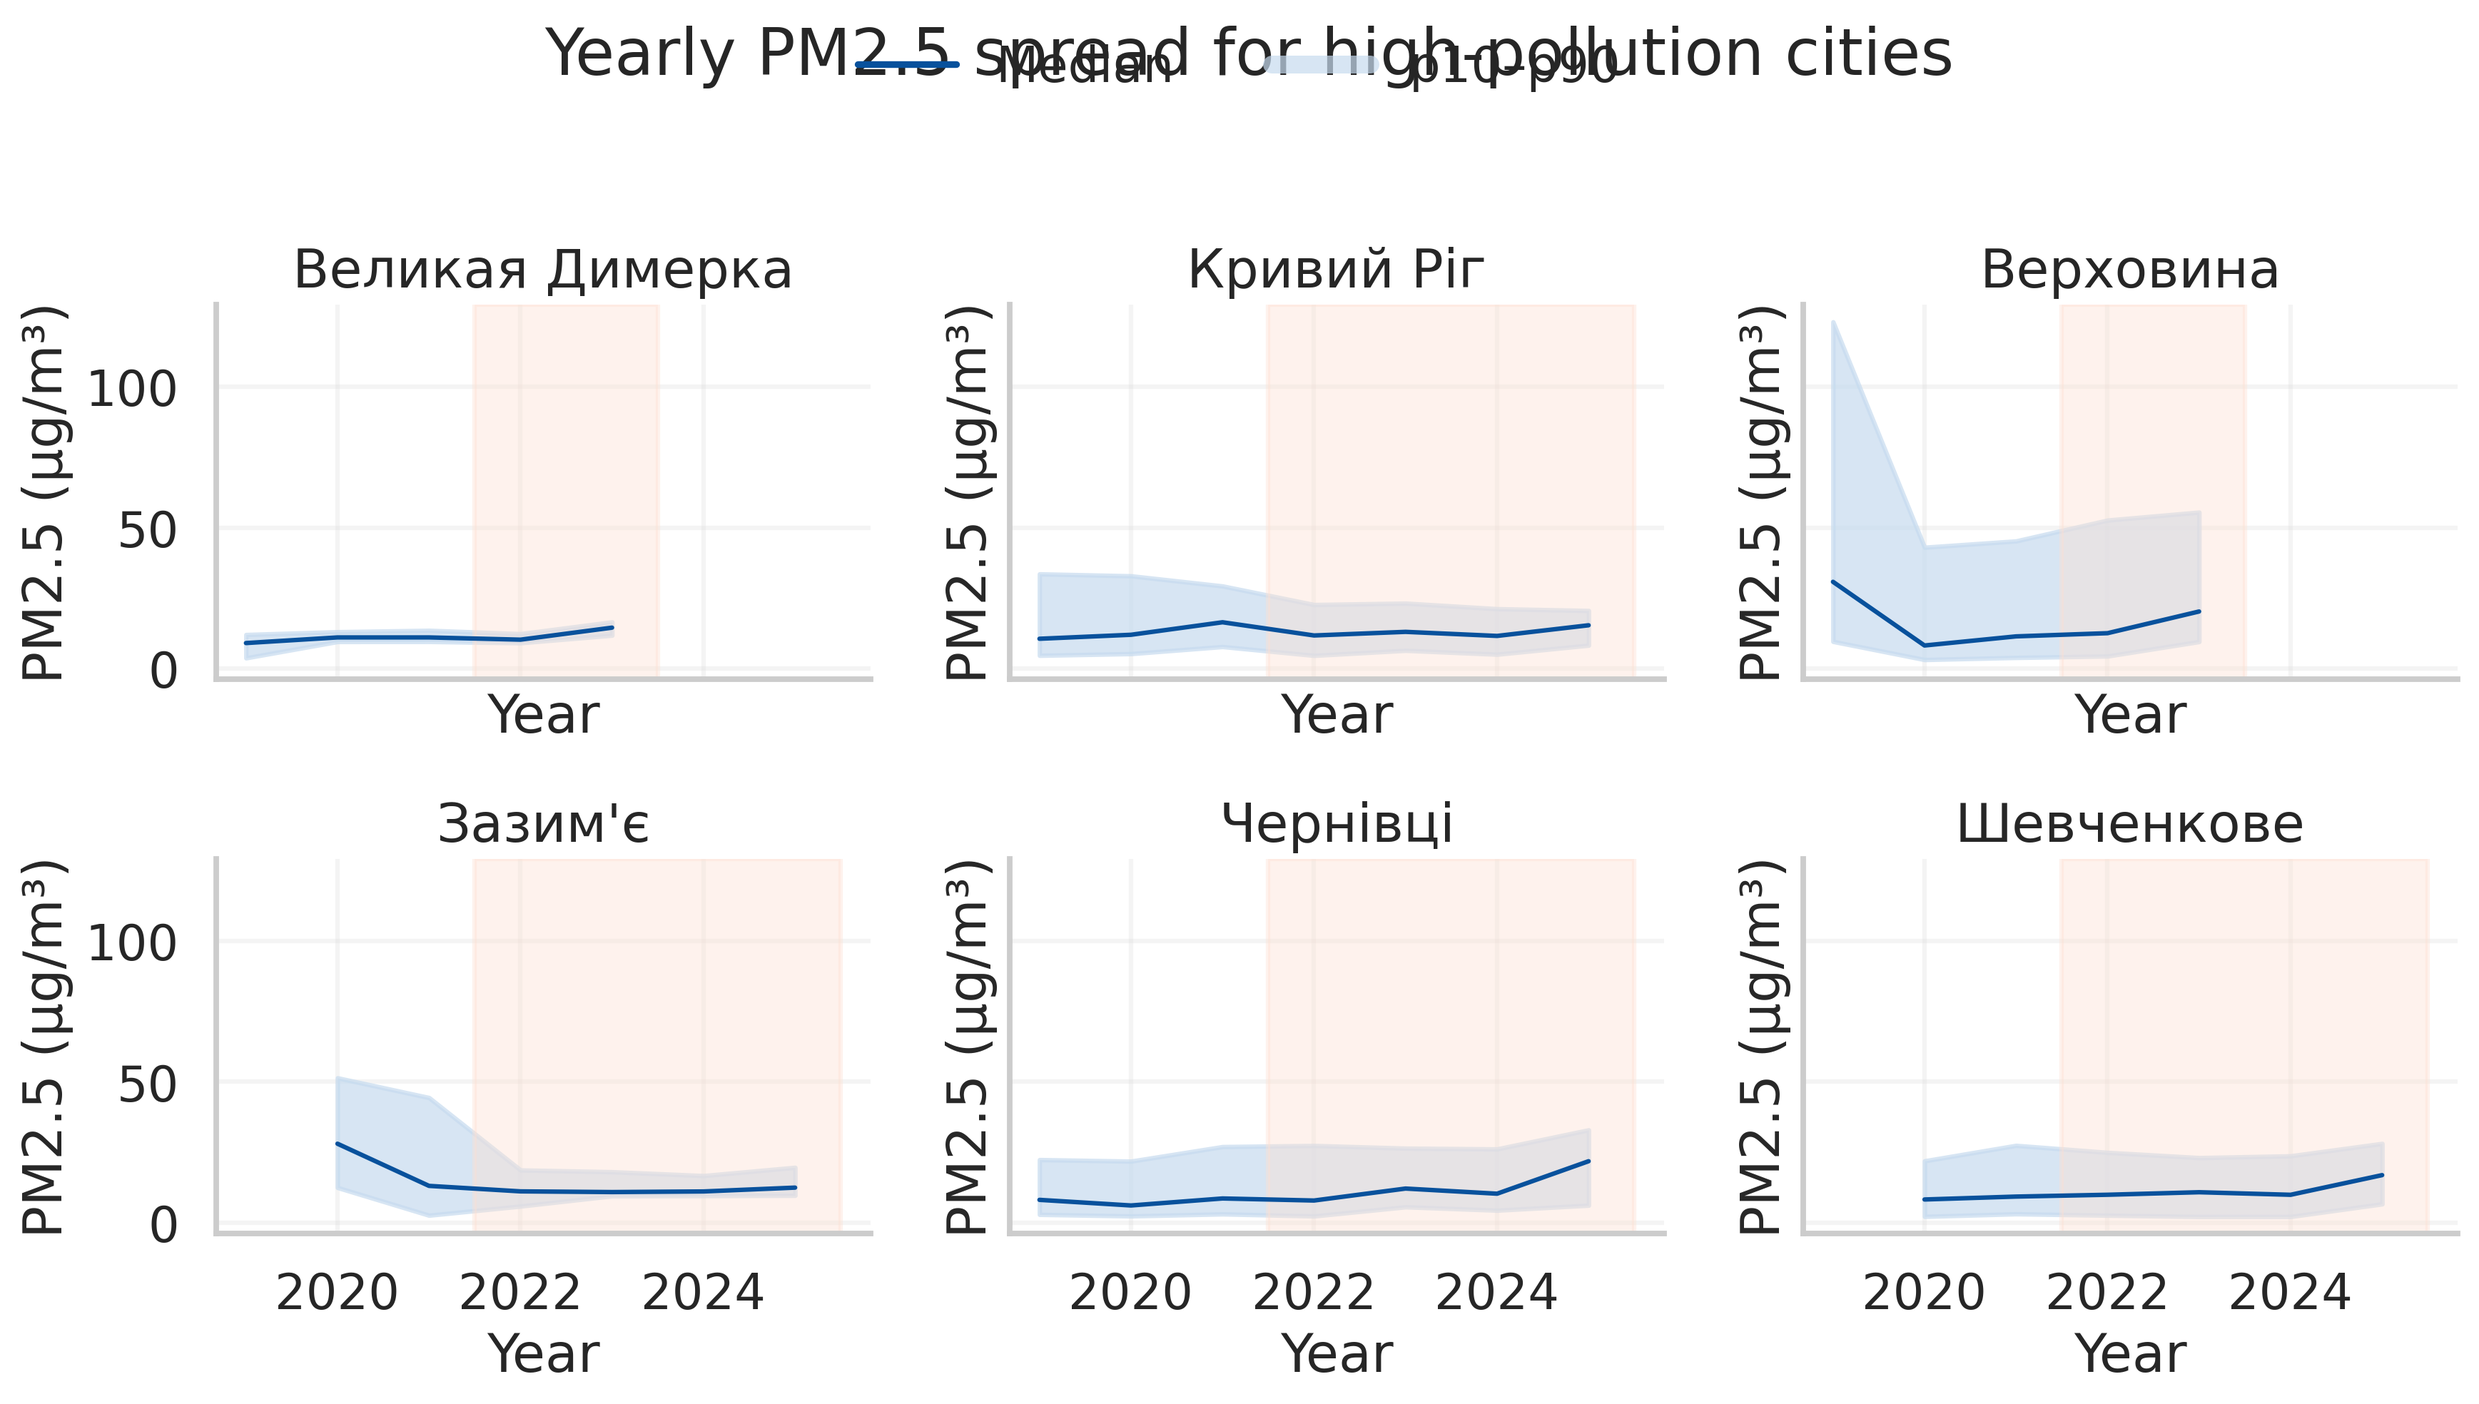
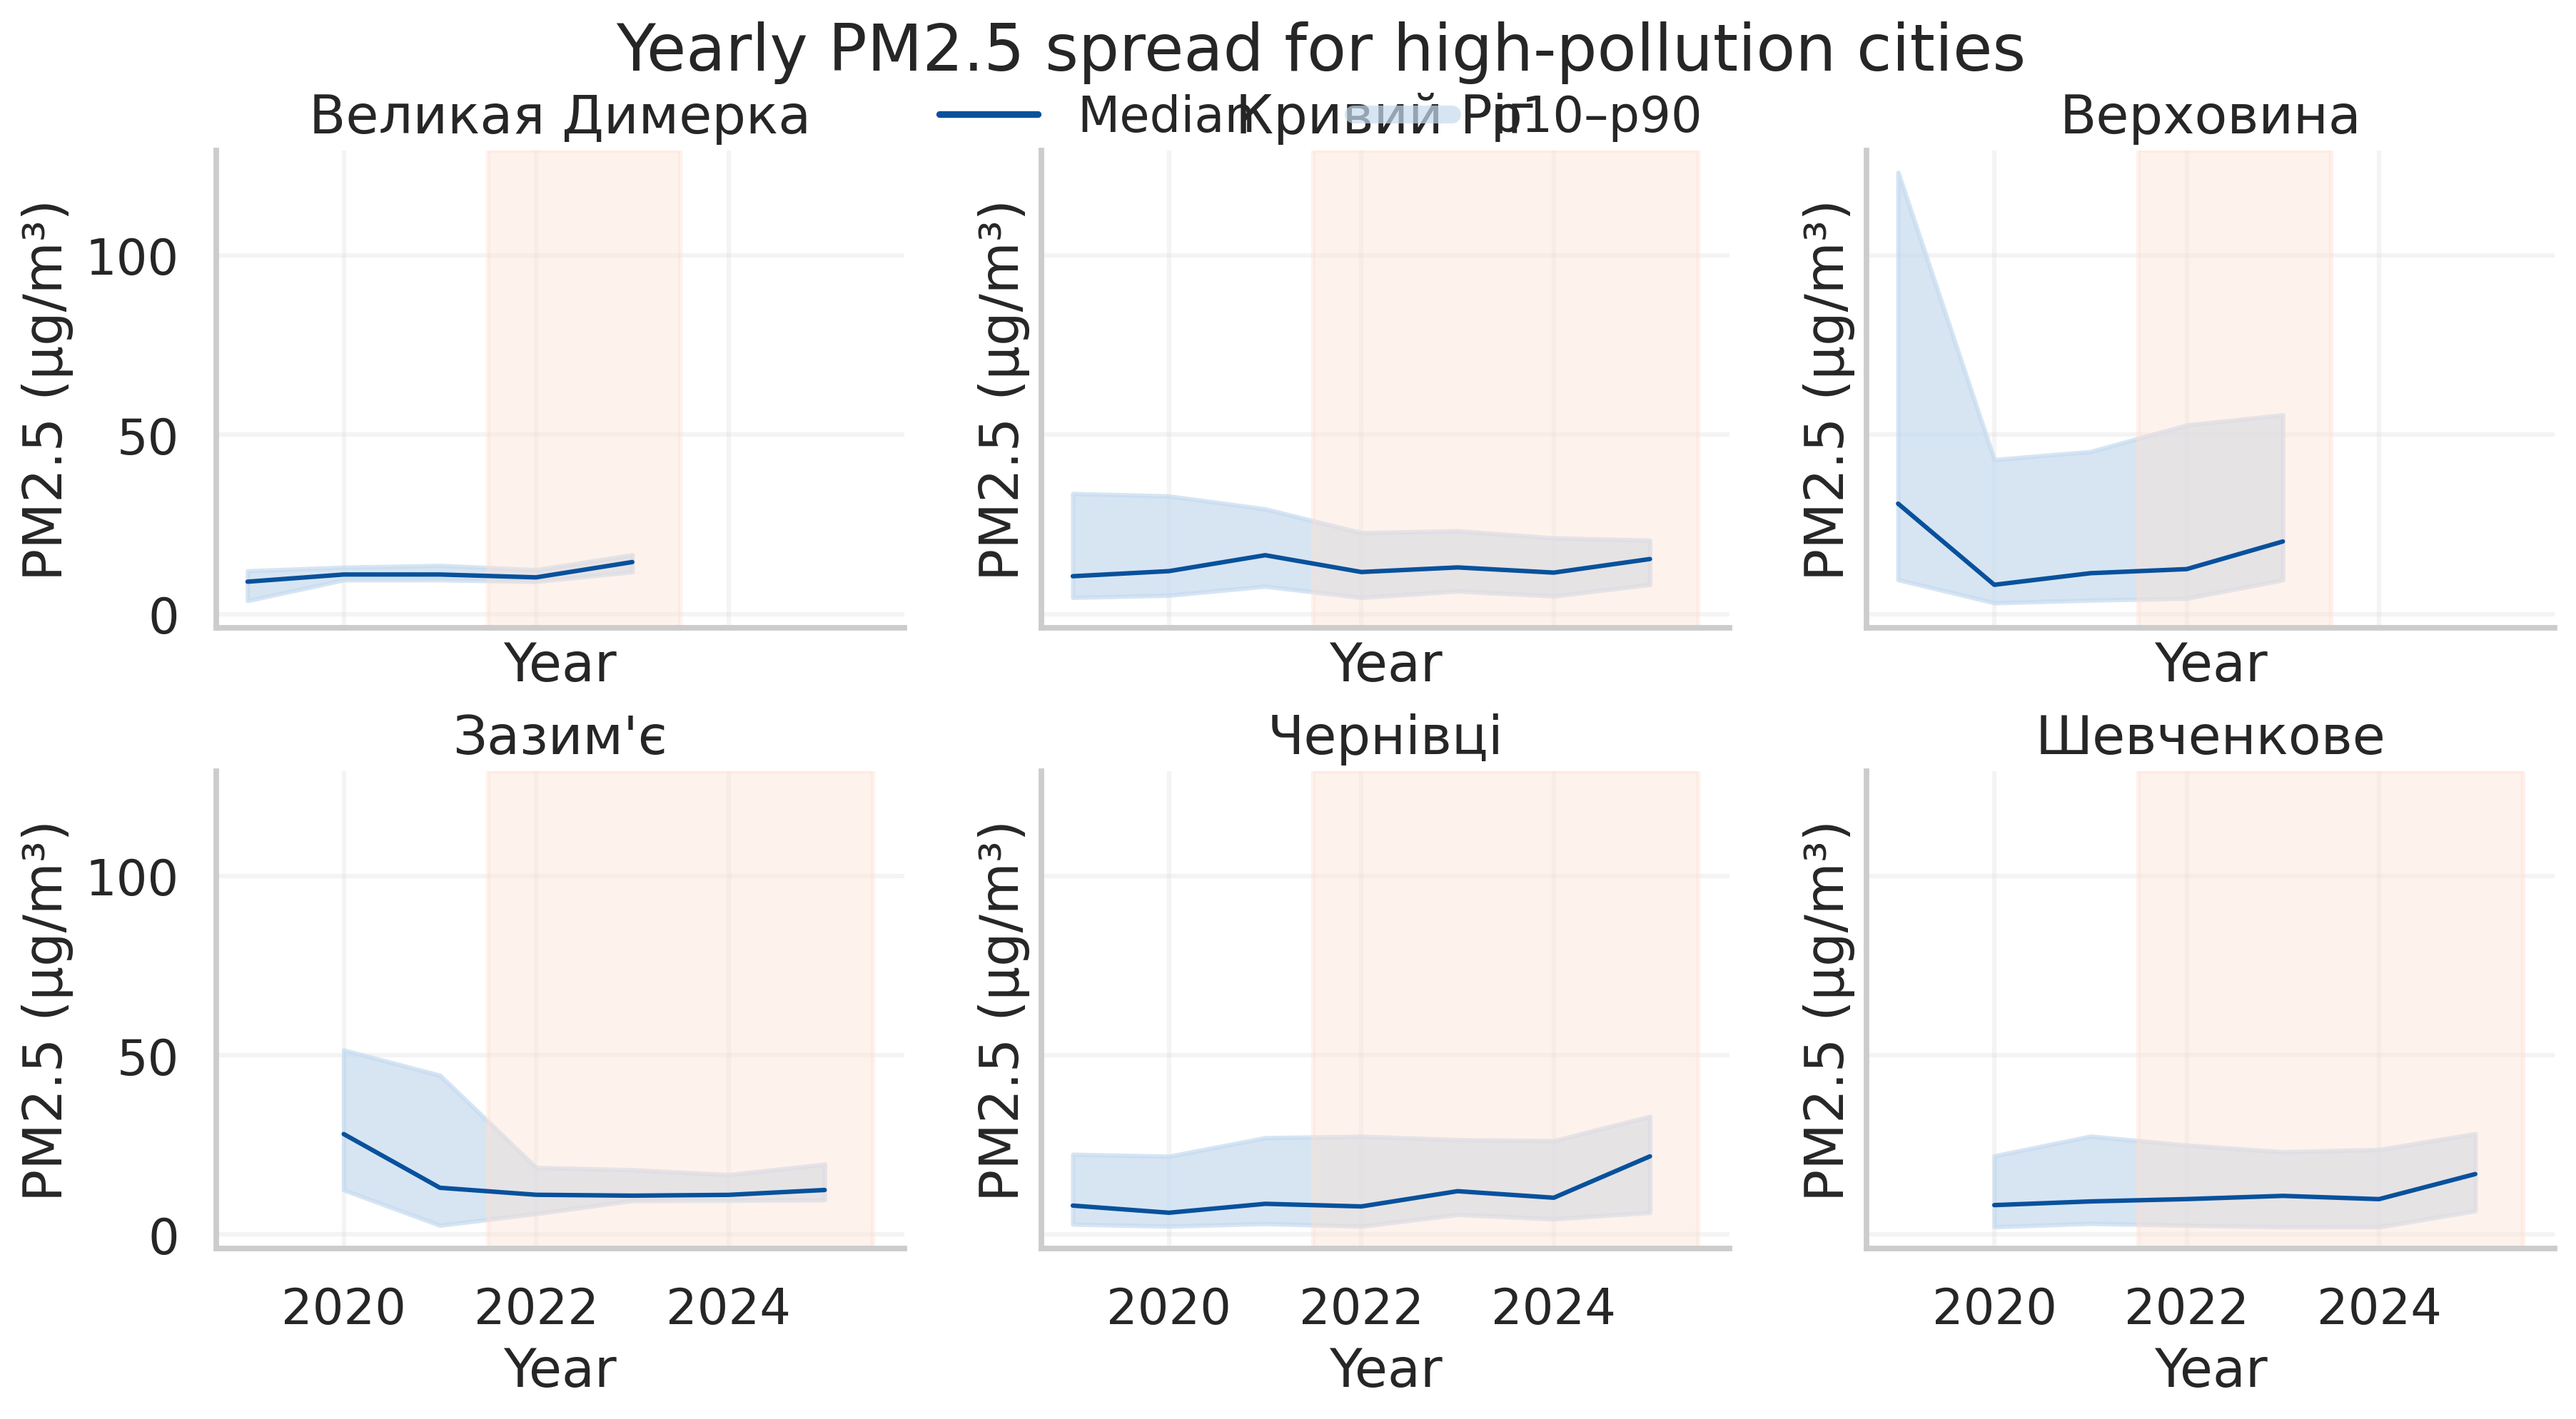
fix: diagrams

diff --git a/src/visualization/figures.py b/src/visualization/figures.py
@@ -72,6 +72,7 @@ def plot_distribution_shift(
     )
     ax.set_xlim(0, max(40, x_max))
     ax.legend(frameon=False)
+    fig.subplots_adjust(top=0.88, bottom=0.15, left=0.08, right=0.97)
     _despine_axes([ax])
     save_figure(fig, output)
 
@@ -156,6 +157,7 @@ def plot_city_ranking(
         frameon=False,
         loc="lower right",
     )
+    fig.subplots_adjust(top=0.88, bottom=0.2, left=0.25, right=0.95)
     _despine_axes([ax])
     save_figure(fig, output)
 
@@ -225,9 +227,15 @@ def plot_inequality_panel(
         plt.Line2D([0], [0], color="#08519c", label="Median"),
         plt.Line2D([0], [0], color="#c6dbef", linewidth=6, alpha=0.7, label="p10–p90"),
     ]
-    fig.legend(handles=handles, loc="upper center", ncol=2, frameon=False)
-    fig.suptitle("Yearly PM2.5 spread for high-pollution cities")
-    fig.tight_layout(rect=[0, 0, 1, 0.95])
+    fig.suptitle("Yearly PM2.5 spread for high-pollution cities", y=0.97)
+    fig.legend(
+        handles=handles,
+        loc="upper center",
+        bbox_to_anchor=(0.5, 0.95),
+        ncol=2,
+        frameon=False,
+    )
+    fig.subplots_adjust(top=0.88, bottom=0.12, left=0.07, right=0.98, hspace=0.3)
     _despine_axes(ax for ax in axes if ax.get_visible())
     save_figure(fig, output)
 
@@ -251,7 +259,7 @@ def plot_heatmap(data: pd.DataFrame, output: Path) -> None:
     if len(periods) == 1:
         axes = [axes]
 
-    month_labels = ["Jan", "Feb", "Mar", "Apr", "May", "Jun", "Jul", "Aug", "Sep", "Oct", "Nov", "Dec"]
+    month_labels = ["Jan", "", "Mar", "", "May", "", "Jul", "", "Sep", "", "Nov", ""]
     vmax = grouped["pm25"].max()
     vmin = grouped["pm25"].min()
 
@@ -271,9 +279,10 @@ def plot_heatmap(data: pd.DataFrame, output: Path) -> None:
         ax.set_xlabel("Month")
         ax.set_xticklabels(month_labels, rotation=45, ha="right")
         ax.set_ylabel("Local Hour")
+        ax.set_yticks(range(0, 24, 3))
 
-    fig.suptitle("Average hourly PM2.5 by month and hour")
-    fig.tight_layout(rect=[0, 0, 1, 0.93])
+    fig.suptitle("Average hourly PM2.5 by month and hour", y=0.96)
+    fig.subplots_adjust(top=0.88, bottom=0.12, left=0.08, right=0.98, wspace=0.12)
     _despine_axes(axes)
     save_figure(fig, output)
 
@@ -330,8 +339,8 @@ def plot_exceedance_timeline(
     )
     ax.legend(frameon=False, ncol=2)
     ax.set_ylim(0, 1)
+    fig.subplots_adjust(top=0.88, bottom=0.16, left=0.08, right=0.97)
     _despine_axes([ax])
-    fig.tight_layout()
     save_figure(fig, output)
 
 
@@ -376,8 +385,8 @@ def plot_station_coverage(
     )
     ax.legend(title="City", frameon=False, ncol=2)
     ax.set_ylim(0, 1)
+    fig.subplots_adjust(top=0.88, bottom=0.18, left=0.08, right=0.97)
     _despine_axes([ax])
-    fig.tight_layout()
     save_figure(fig, output)
 
 
@@ -417,8 +426,8 @@ def plot_aqi_pm25_scatter(
         ax.set_xlim(left=0)
         ax.set_ylim(0, 500)
 
-    fig.suptitle("Relationship between PM2.5 and AQI")
-    fig.tight_layout(rect=[0, 0, 1, 0.94])
+    fig.suptitle("Relationship between PM2.5 and AQI", y=0.96)
+    fig.subplots_adjust(top=0.88, bottom=0.14, left=0.08, right=0.97, wspace=0.12)
     _despine_axes(axes)
     save_figure(fig, output)
 
@@ -452,11 +461,11 @@ def plot_choropleth(geo_data: gpd.GeoDataFrame, output: Path) -> None:
         ax.set_title(period.replace("_", " ").title())
         ax.axis("off")
 
-    fig.suptitle("Regional median PM2.5")
-    fig.tight_layout(rect=[0, 0, 1, 0.94])
+    fig.suptitle("Regional median PM2.5", y=0.96)
+    fig.subplots_adjust(top=0.88, bottom=0.05, left=0.03, right=0.95, wspace=0.04)
     sm = plt.cm.ScalarMappable(norm=norm, cmap=cmap)
     sm._A = []
-    fig.colorbar(sm, ax=axes, fraction=0.035, pad=0.02, label="Median PM2.5 (µg/m³)")
+    fig.colorbar(sm, ax=list(axes), fraction=0.025, pad=0.015, label="Median PM2.5 (µg/m³)")
     _despine_axes(axes)
     save_figure(fig, output)
 
